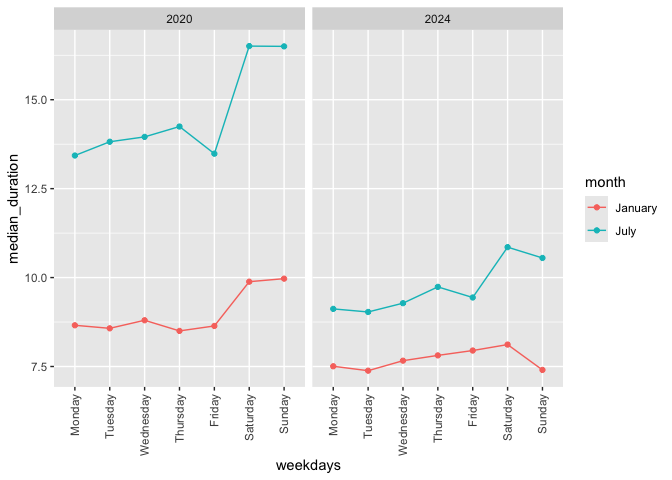
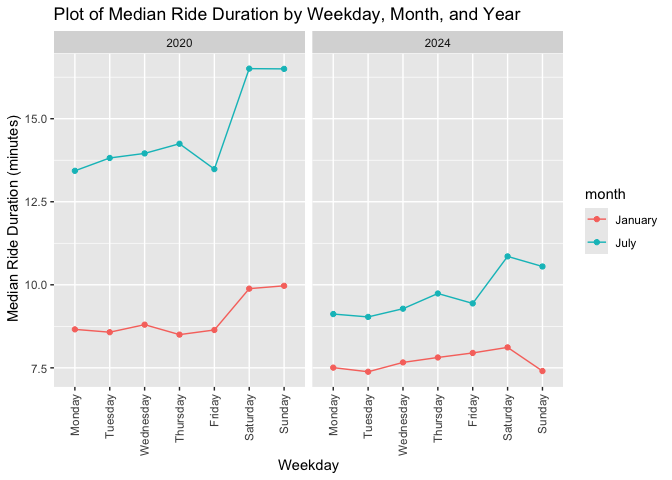
edits

diff --git a/p8105_hw3_abj2136.md b/p8105_hw3_abj2136.md
@@ -155,16 +155,16 @@ education groups.
 ``` r
 combined_accel |> 
   ggplot(aes(x = minute, y = mims_value, color = sex)) +
-  geom_point(alpha = .5, size = .5) +
-  geom_smooth(aes(linetype = sex), se = FALSE, color = "black") +
+  geom_line(aes(group = seqn), alpha = .15, linewidth = .25) +
+  geom_smooth(se = FALSE, linewidth = 2) +
   facet_grid(. ~ education) +
   scale_x_continuous(
     breaks = c(240, 480, 720, 960, 1200, 1440),
     labels = c("4", "8", "12", "16", "20", "24")
   ) +
   labs(
-    title = "24 hour activity time course by education level",
-    x = "Time (hour)",
+    title = "24 Hour Activity Time Course by Education Level",
+    x = "Time (Hour)",
     y = "Activity (MIMS)"
   )
 ```
@@ -301,7 +301,12 @@ total_citi |>
   geom_point() +
   geom_line() +
   facet_grid(. ~ year) +
-  theme(axis.text.x = element_text(angle = 90, hjust = 1, vjust = 0.5))
+  theme(axis.text.x = element_text(angle = 90, hjust = 1, vjust = 0.5)) +
+  labs(
+    title = "Plot of Median Ride Duration by Weekday, Month, and Year",
+    y = " Median Ride Duration (minutes)",
+    x = "Weekday"
+  )
 ```
 
     ## `summarise()` has regrouped the output.
@@ -330,14 +335,14 @@ January 2024.
 ``` r
 total_citi |> 
   filter(year == 2024) |> 
-  mutate(log_ride = log(duration)) |> 
-  ggplot(aes(x = member_casual, y = log_ride, fill = rideable_type)) +
+  ggplot(aes(x = member_casual, y = duration, fill = rideable_type)) +
   geom_boxplot() + 
   facet_grid(. ~ month) +
+  scale_y_continuous(trans = "log10") +
   labs(
-    title = "Ride Duration by bike type, membership, and month in 2024",
+    title = "Ride Duration by Bike Type, Membership, and Month in 2024",
     x = "Rider Type",
-    y = "Ride Duration (minutes, log transformed)",
+    y = "Ride Duration (minutes)",
     fill = "Bike Type"
   )
 ```
